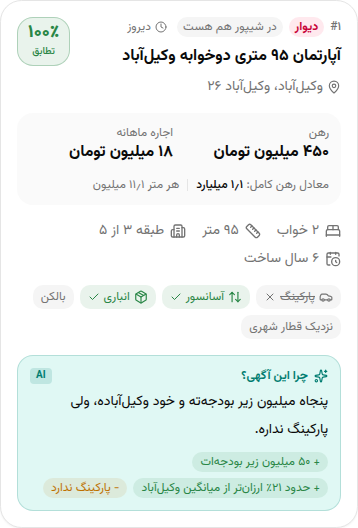
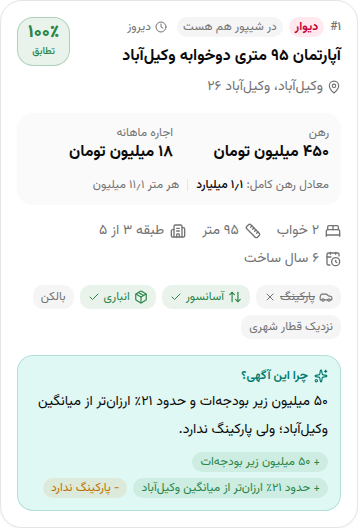
docs: demo script draft and README rewrite for the live demo
- docs/DEMO_SCRIPT.md: ≤5 min Persian narration with timings, three
  demo queries (simple, tricky budget, trade-off) + backup, recording
  checklist and direct ?q= links. Awaiting owner approval.
- README: live link, screenshots, how-it-works pipeline, run-locally;
  corrects stale claims (no live URL, Claude, real listings, Tehran example).
- Refreshed screenshots from the current UI.

Claude-Session: https://claude.ai/code/session_01AeX3KWUuU1gUoNbeUAh7JL

Changed region(s): [[0.0922, 0.7273, 0.9218, 0.8485], [0.0615, 0.697, 0.1536, 0.7273]]

diff --git a/docs/DEMO_SCRIPT.md b/docs/DEMO_SCRIPT.md
@@ -1,0 +1,114 @@
+# Homerob — Demo script (≤ 5 min, Persian narration)
+
+> Status: **draft — waiting for owner approval** of the three demo queries and the narration
+> (see `docs/PLAN.md` → Open questions). Numbers below are what production returned on
+> 2026-09-24; small wording differences in the AI text are expected.
+
+Live: https://homerob.vercel.app
+
+## Before recording (checklist)
+
+- Browser window ~1280×800, zoom 110%, hide bookmarks bar, one clean tab.
+- **Warm up**: run the 3 queries once 1–2 minutes before recording (fills the in-memory cache,
+  avoids Gemini free-tier slowness). Wait ~1 min after warm-up so the rate limit resets.
+- Check the explanation box shows the small **AI** badge. If it doesn't (Gemini busy), wait a minute
+  and re-run — the rule-based text is fine, but the AI one tells the story better.
+- Direct links (paste instead of typing if needed):
+  - Q1: https://homerob.vercel.app/?q=یه%20آپارتمان%20دوخوابه%20نزدیک%20وکیلآباد%20با%20۵۰۰%20میلیون%20رهن
+  - Q2: https://homerob.vercel.app/?q=دانشجوام،%20یه%20سوئیت%20ارزون%20هر%20جای%20مشهد،%20ماهی%20۵%20تومن
+  - Q3: https://homerob.vercel.app/?q=دوخوابه%20بالکندار%20سجاد،%20پارکینگ%20مهم%20نیست،%20رهن%20۴۰۰%20میلیون
+
+## Timeline
+
+| Time | On screen | Beat |
+|---|---|---|
+| 0:00–0:35 | Divar/Sheypoor-style listing text (or the Homerob home page) | Problem |
+| 0:35–1:05 | Homerob home page, "how it works" strip | Idea: Torob for home |
+| 1:05–2:10 | Q1 — simple query | Understanding + normalization + explanation |
+| 2:10–3:00 | Q2 — tricky budget | Empty state that helps |
+| 3:00–4:00 | Q3 — trade-off + remove a chip | Honest trade-offs, user in control |
+| 4:00–4:35 | (stay on results) | Under the hood / product decisions |
+| 4:35–5:00 | Home page | What's next |
+
+---
+
+## Narration
+
+### 0:00 — مشکل (≈ ۳۵ ثانیه)
+
+> سلام، من محمدجواد هستم. هر کسی تو ایران دنبال خونهٔ اجارهای گشته، این تجربه رو داره:
+> صدها آگهی تو دیوار و شیپور، هر کدوم با یه ترکیب عجیب از رهن و اجاره؛ یکی «۳۰۰ رهن، ۱۵ اجاره»،
+> یکی «رهن کامل ۸۰۰»، یکی «قابل تبدیل». واقعاً نمیشه فهمید کدوم ارزونتره، کدوم به بودجهی من
+> میخوره، و کدوم اصلاً چیزیه که من میخوام. آخرش آدم ساعتها اسکرول میکنه و تو ذهنش حسابکتاب میکنه.
+
+### 0:35 — ایده (≈ ۳۰ ثانیه)
+
+*On screen: home page, point at the search box and the 3 steps.*
+
+> هومراب یعنی «ترب، ولی برای خونه». همون کاری که ترب برای قیمت کالا کرده — جمع کردن، ساختار دادن،
+> مقایسه کردن — اینبار برای اجارهی خونه تو مشهد. اینجا فیلتر و فرم نداریم؛ فقط مینویسی چی
+> میخوای، به زبان خودت، و هوش مصنوعی بقیهش رو انجام میده.
+
+### 1:05 — سؤال ۱: ساده (≈ ۶۵ ثانیه)
+
+*Type or click:* **«یه آپارتمان دوخوابه نزدیک وکیلآباد با ۵۰۰ میلیون رهن»**
+
+1. *Point at the chips* (رهن تا ۵۰۰ میلیون · وکیلآباد · ۲ خواب یا بیشتر):
+   > اول ببینید هومراب چی فهمید: بودجهی رهن ۵۰۰ میلیون، محله وکیلآباد، حداقل دو خواب. اینها
+   > فیلترهاییان که از یه جملهی محاورهای درآومده.
+2. *Point at card #1 (dv-0901, 450M + 18M, "در شیپور هم هست")*:
+   > نتیجهی اول: ۹۵ متر، دوخوابه، خود وکیلآباد. این آگهی هم تو دیوار بوده هم تو شیپور؛ هومراب
+   > تشخیص داده یکیان و یه کارت نشون میده — دقیقاً کاری که ترب با کالای تکراری میکنه.
+3. *Point at the AI box*: «پنجاه میلیون زیر بودجهته و خود وکیلآباده، ولی پارکینگ نداره.»
+   > و مهمتر: میگه چرا. نه فقط مزیت، بلکه ضعفش رو هم صادقانه میگه: پارکینگ نداره.
+4. *Point at card #2 (sp-0902, 550M + 16M → «با بودجهٔ تو: رهن ۵۰۰ میلیون + اجاره ۱۷٫۵ میلیون»)*:
+   > این یکی ۵۵۰ میلیون رهن میخواد، یعنی بالای بودجهست. ولی قابل تبدیله؛ هومراب حساب کرده اگه
+   > ۵۰۰ بدی، اجاره میشه ۱۷ و نیم میلیون. همهی قیمتها با یه نرخ ثابت — هر یک میلیون رهن، ۳۰ هزار
+   > تومن اجاره — همتراز شدن، برای همین «معادل رهن کامل» و «قیمت هر متر» قابل مقایسهان.
+
+### 2:10 — سؤال ۲: بودجهی سخت (≈ ۵۰ ثانیه)
+
+*Type or click:* **«دانشجوام، یه سوئیت ارزون هر جای مشهد، ماهی ۵ تومن»**
+
+1. *Chips:* اجاره تا ۵ میلیون · سوئیت · دانشجو
+   > «ماهی ۵ تومن» یعنی ۵ میلیون؛ این رو هم فهمید.
+2. *Empty state:* «هیچ آگهیای با این بودجه نیست» + button «با ماهی ۶ میلیون، ۲ آگهی پیدا میشه — نشونم بده»
+   > با این بودجه هیچی نیست — و به جای یه صفحهی خالی، هومراب میگه با ماهی ۶ میلیون دو تا
+   > گزینه هست.
+3. *Click the button.* Top results: سوئیت ۴۴ متری قاسمآباد → «با ۲۲۳ میلیون رهن، اجارهاش ۶ میلیون میشه».
+   > یه کلیک، و حتی میگه چقدر رهن بدی تا اجاره به ۶ میلیون برسه.
+
+### 3:00 — سؤال ۳: بدهبستان (≈ ۶۰ ثانیه)
+
+*Type or click:* **«دوخوابه بالکندار سجاد، پارکینگ مهم نیست، رهن ۴۰۰ میلیون»**
+
+1. *Chips:* رهن تا ۴۰۰ میلیون · سجاد · ۲ خواب یا بیشتر · بالکن — **no parking chip**
+   > دقت کنید: گفتم «پارکینگ مهم نیست» و هومراب پارکینگ رو شرط نکرده.
+2. *Top results:* a 1-bedroom in Sajjad («۱۰۰ میلیون زیر بودجهات… ولی ۱ خوابه است، نه ۲ خوابه») and
+   a 2-bedroom outside Sajjad.
+   > با ۴۰۰ میلیون، تو سجاد دوخوابهی بالکندار نیست. هومراب قایمش نمیکنه؛ بدهبستان رو نشون میده:
+   > یا تو سجاد یهخوابه، یا دوخوابه ولی تو محلهی دیگه.
+3. *Remove the «سجاد» chip (×).* New top: 2-bedrooms in وکیلآباد / قاسمآباد / هاشمیه.
+   > اگه محله برام مهم نباشه، فقط این چیپ رو برمیدارم — بدون تایپ دوباره — و بهترین دوخوابهها
+   > با همین بودجه میان بالا. کنترل دست کاربره.
+
+### 4:00 — پشت صحنه (≈ ۳۵ ثانیه)
+
+> چند تا تصمیم محصولی پشتش هست: بودجه فیلتر سخته، ولی بقیهی خواستهها امتیاز نرم دارن، که اگه
+> چیزی کامل جور نبود، نزدیکترین گزینهها با دلیل بیان. هوش مصنوعی فقط با اطلاعات واقعی آگهی توضیح
+> مینویسه؛ اگه عددی بگه که تو داده نیست، اون توضیح رد میشه. و اگه سرویس هوش مصنوعی کند یا قطع
+> باشه، یه موتور قانونمحور فارسی جایگزین میشه، که جستجو هیچوقت از کار نیفته.
+
+### 4:35 — قدم بعدی (≈ ۲۵ ثانیه)
+
+> این نسخه با دادهی نمونهی مشهد کار میکنه. قدمهای بعدی: جمعآوری زندهی آگهیها از منابع
+> مختلف، تشخیص تکراری هوشمندتر بین سایتها، و شهرهای بیشتر. هدف رقابت با دیوار نیست؛ هدف لایهی
+> هوشمندیه که به آگهیهای موجود معنی میده. ممنون که دیدید.
+
+---
+
+## Backup query (if one of the above misbehaves)
+
+- **«پونصد تومن پول پیش دارم و ماهی ۱۵ تومن میتونم اجاره بدم، قاسمآباد»** — shows colloquial
+  numbers (پونصد تومن → ۵۰۰ میلیون، ۱۵ تومن → ۱۵ میلیون) and a two-sided budget; top result
+  «ماهی ۳ میلیون کمتر از سقف اجارهات».

diff --git a/README.md b/README.md
@@ -1,10 +1,14 @@
 # Homerob 🏠
 
-**AI-powered home search & comparison for Iran's rental market.**
+**AI-powered rental search & comparison for Mashhad — "Torob for home".**
+
+🔗 **Live demo: https://homerob.vercel.app**
 
 Built for [Torob](https://torob.com)'s **AI Product Engineer** hiring challenge — an exploration of what "Torob for real estate" could look like.
 
 > ترب برای پیدا کردن بهترین قیمت کالا رو ساده کرده؛ Homerob همون کارو برای پیدا کردن خونه انجام میده.
+
+![Homerob results for «یه آپارتمان دوخوابه نزدیک وکیلآباد با ۵۰۰ میلیون رهن»](docs/screenshots/desktop-results.png)
 
 ---
 
@@ -19,52 +23,81 @@ Searching for a rental home in Iran today (via Divar, Sheypoor, etc.) means:
 
 ## The Idea
 
-Homerob is a **meta-search / AI-normalization layer** on top of existing listings — not a new classifieds site. It:
+Homerob is a **meta-search / AI-normalization layer** on top of existing listings — not a new classifieds site. You type what you need in everyday Persian, and it:
 
-1. **Ingests** listings (a curated sample dataset for this MVP — see [Status](#status))
-2. **Normalizes** messy free-text into structured data (price, rahn↔ejare conversion, area, rooms, location, amenities)
-3. **Ranks** results by natural-language user intent (not just rigid filters)
-4. **Explains** why each top result was chosen, in plain Persian
+1. **Understands** the request — budget, neighborhood, rooms, must-haves vs. nice-to-haves — and shows it back as editable chips
+2. **Normalizes** every listing's rahn/ejare split to comparable numbers (full-deposit equivalent, price per m², and *your* split if the landlord allows conversion)
+3. **Ranks** listings by fit (hard budget filter + soft, weighted scoring)
+4. **Explains** each top result in plain Persian — including the trade-off (e.g. «۵۰ میلیون زیر بودجهته و خود وکیلآباده، ولی پارکینگ نداره.»)
+
+## How it works
 
 ```
-build homerob --for "rental housing"
-> ingest sample listings
-> normalize rahn/ejare pricing
-> rank by user intent
-> explain the best choice
-> ship demo.mp4
+«یه دوخوابه نزدیک وکیلآباد با ۵۰۰ میلیون رهن»
+        │
+        ▼
+ POST /api/search
+   1. Intent  — Gemini (strict JSON, zod-validated) → { maxDeposit: 500M, neighborhoods: [وکیلآباد], minRooms: 2, … }
+                fallback: deterministic Persian rule parser (digits, «پونصد», «۸ تومن», «مهم نیست», …)
+   2. Budget  — hard filter; rahn ↔ ejare conversion at 3%/month when user + landlord allow it
+   3. Score   — 0–100 from one weights config: neighborhood (adjacent = partial), must-haves, rooms,
+                area, value vs. neighborhood median per m², nice-to-haves, recency
+   4. Dedup   — same apartment on Divar and Sheypoor → one card («در شیپور هم هست»)
+        │
+        ▼
+ POST /api/explain   (async — cards render first, AI text swaps in)
+   one batched Gemini call for the top 10, grounded in computed pros/cons;
+   any sentence with a number not in the facts is rejected → rule-based explanation
 ```
 
-> **Vision vs. MVP:** the longer-term idea is a live crawler over sources like Divar/Sheypoor. That's explicitly **not built** for this challenge — see [Future Work](#future-work) — this MVP runs entirely on a static sample dataset.
+Resilience: the Gemini free tier is flaky, so models are **raced** (next model after 1.5 s, 5 s deadline) and every AI step has a deterministic fallback — search never breaks. Empty results come with a one-click suggestion («با ماهی ۶ میلیون، ۲ آگهی پیدا میشه — نشونم بده»).
 
-## Deliverable
+## Core Features
 
-A **locally-runnable Next.js app**, demoed via a screen-recorded walkthrough (`demo.mp4`) — not a live deployed URL. This avoids hosting/uptime risk within the challenge timebox while still showing a real click-through of working search, ranking, and explanations.
+- 🔎 **Natural-language Persian search** — e.g. *«سوئیت یا یکخوابه تو سجاد، ماهی حداکثر ۸ تومن»*
+- 🏷 **"What the AI understood" chips** — remove any chip to refine instantly (no re-typing, no extra AI call)
+- 💰 **Rahn ↔ Ejare normalization** — full-deposit equivalent, price per m², and the split *you* would pay
+- 📊 **Fair-price signal** — cheaper/pricier than the neighborhood median per m²
+- 🤖 **AI explanations with honest trade-offs** — grounded in the listing's real facts
+- 🔁 **Cross-source dedup** — one card per apartment, even if it's on both Divar and Sheypoor
+- 📱 **RTL, mobile-first UI** — Vazirmatn, shareable `?q=` links
 
-## Core Features (MVP)
-
-- 🔎 **Natural-language Persian search** — e.g. *"۲ خوابه زیر ۵۰۰ میلیون رهن نزدیک مترو در سعادتآباد"*
-- 💰 **Rahn ↔ Ejare converter** — normalizes every listing to a comparable "true monthly cost"
-- 📊 **Fair-price estimate** — flags listings priced above/below the neighborhood median
-- 🤖 **AI-generated explanations** — why a result matches (or doesn't quite match) what you asked for
+| Mobile card | Empty state with suggestion |
+|---|---|
+| ![card](docs/screenshots/mobile-card.png) | ![empty](docs/screenshots/mobile-empty.png) |
 
 ## Tech Stack
 
-- **Next.js** — frontend + API routes
-- **Claude API** — listing normalization, intent parsing, ranking, and explanation generation
-- **Sample dataset** — a curated set of real listings (JSON) used for the demo, in lieu of a live crawler
+- **Next.js 16** (App Router, route handlers) + **TypeScript**, deployed on **Vercel**
+- **Tailwind CSS v4** + **shadcn/ui** (base-ui), full RTL
+- **Google Gemini** (free tier) via an OpenAI-compatible client — `AI_PROVIDER` switches to DeepSeek / OpenAI / a no-key `mock` (rule-based) mode
+- **zod** for intent validation, **vitest** for unit tests
+- **Sample dataset** — 96 generated Divar/Sheypoor-style listings across 6 Mashhad neighborhoods (الهیه، سجاد، وکیلآباد، احمدآباد، هاشمیه، قاسمآباد). No scraping; no database.
+
+## Run locally
+
+```bash
+npm install
+cp .env.example .env.local   # optional: AI_PROVIDER=gemini + GEMINI_API_KEY=...
+npm run dev                  # http://localhost:3000  (works without a key in mock mode)
+npm test                     # unit tests (pricing, parser, budget, ranking, grounding)
+npm run generate:listings    # regenerate src/data/listings.json (deterministic)
+```
+
+Key files: `src/lib/intent/` (schema, rule parser, LLM parser) · `src/lib/pricing.ts` · `src/lib/search/` (budget, score, dedup, suggest) · `src/lib/explain/` · `src/lib/ai/client.ts` · `src/components/`.
 
 ## Status
 
-🚧 Work in progress — built as a rapid demo for a hiring challenge, not production software.
+✅ Working demo, deployed. Built in a 2-day sprint for a hiring challenge — a demo, not production software. Sprint plan and decisions: [`docs/PLAN.md`](docs/PLAN.md), [`docs/DECISIONS.md`](docs/DECISIONS.md). Demo script: [`docs/DEMO_SCRIPT.md`](docs/DEMO_SCRIPT.md).
 
 ## Future Work
 
 Not built for this MVP — kept here as stated direction, not a claim:
 
-- **Live crawler** over Divar / Sheypoor (or ingestion via Divar's public dataset / Kenar platform), replacing the static sample dataset
-- Real transaction-price data to improve the fair-price estimate beyond a simple neighborhood median
-- Fraud/duplicate-listing detection
+- **Live aggregation** over Divar / Sheypoor (or ingestion via Divar's public dataset / Kenar platform), replacing the sample dataset
+- Smarter cross-source duplicate detection (fuzzy matching on text, photos, location) — today's is exact-match
+- Real transaction-price data to improve the fair-price signal beyond a neighborhood median
+- More cities, map view, saved searches / alerts
 
 ## Why This Approach
 
@@ -76,3 +109,5 @@ This mirrors Torob's own DNA: **aggregate → structure → compare**, applied t
 Built as part of Torob's AI Product Engineer challenge.
 
 ## License
+
+[MIT](LICENSE)

diff --git a/docs/PLAN.md b/docs/PLAN.md
@@ -28,7 +28,9 @@ Time boxes are hard limits. Over budget → cut to simplest demoable version, no
   - Phase 5: prod latency measured (search p50 ≈ 1.7s, max ≈ 5s by design; repeat ≈ 150ms from
     in-memory cache; explanations 2–7s, async); OG image `public/og.png` (Chromium-rendered),
     metadata + theme color, `src/app/icon.svg` + `apple-icon.png`, how-it-works strip, about footer.
-- **Next:** Phase 6 → `docs/DEMO_SCRIPT.md` (Persian, ≤ 5 min), owner approves queries, README
+  - Phase 6 (partial): `docs/DEMO_SCRIPT.md` drafted (3 queries + backup, timings, checklist),
+    README rewritten (live link, screenshots, how it works, run locally; fixed stale claims), PR #4 merged.
+- **Next:** owner approves demo queries/script (+ demo cache question) → record video. Then Stretch.
 - **Blocked:** nothing. AI provider: Gemini free tier (see DECISIONS).
 - **Cut / deferred:** `claude` provider (owner switched to Gemini; OpenAI-compatible client covers
   gemini/deepseek/openai).
@@ -56,6 +58,13 @@ Time boxes are hard limits. Over budget → cut to simplest demoable version, no
   to rules on the flagship query once). Options: (a) ship pre-generated *real* AI outputs for the
   3 demo queries as a static cache so the recording is instant and reliable (recommended),
   (b) keep everything live and re-record if Gemini is slow. Until answered: live only.
+  Evidence (2026-09-24 evening): `gemini-3.6-flash` daily quota exhausted (429); lite models took
+  6–13 s per call → most requests fell back to the rule parser/explanations.
+- [DECISION] **Demo script:** approve the 3 queries in `docs/DEMO_SCRIPT.md` — (1) «یه آپارتمان
+  دوخوابه نزدیک وکیلآباد با ۵۰۰ میلیون رهن» (simple), (2) «دانشجوام… ماهی ۵ تومن» (tricky budget →
+  empty state + suggestion), (3) «دوخوابه بالکندار سجاد، پارکینگ مهم نیست، رهن ۴۰۰ میلیون»
+  (trade-off + remove a chip) — and the narration.
+
 ---
 
 ## Day 1
@@ -109,10 +118,10 @@ Time boxes are hard limits. Over budget → cut to simplest demoable version, no
 - [x] Production deploy green, with real AI provider
 
 ### Phase 6 — Demo package (≤ 2h)
-- [ ] `docs/DEMO_SCRIPT.md`: Persian narration, ≤ 5 min: problem → solution → 3 live queries
+- [x] `docs/DEMO_SCRIPT.md`: Persian narration, ≤ 5 min: problem → solution → 3 live queries
       (simple, tricky budget, trade-off) → what's next (live aggregation, dedup across sources, more cities)
 - [ ] [DECISION] Owner approves the 3 demo queries and the script
-- [ ] README updated with live link, screenshot, how it works
+- [x] README updated with live link, screenshot, how it works
 
 ## Stretch (only if everything above is done)
 - [x] Cross-source duplicate detection (exact-match version, done in Phase 3) (same listing on Divar & Sheypoor merged — very "Torob")
